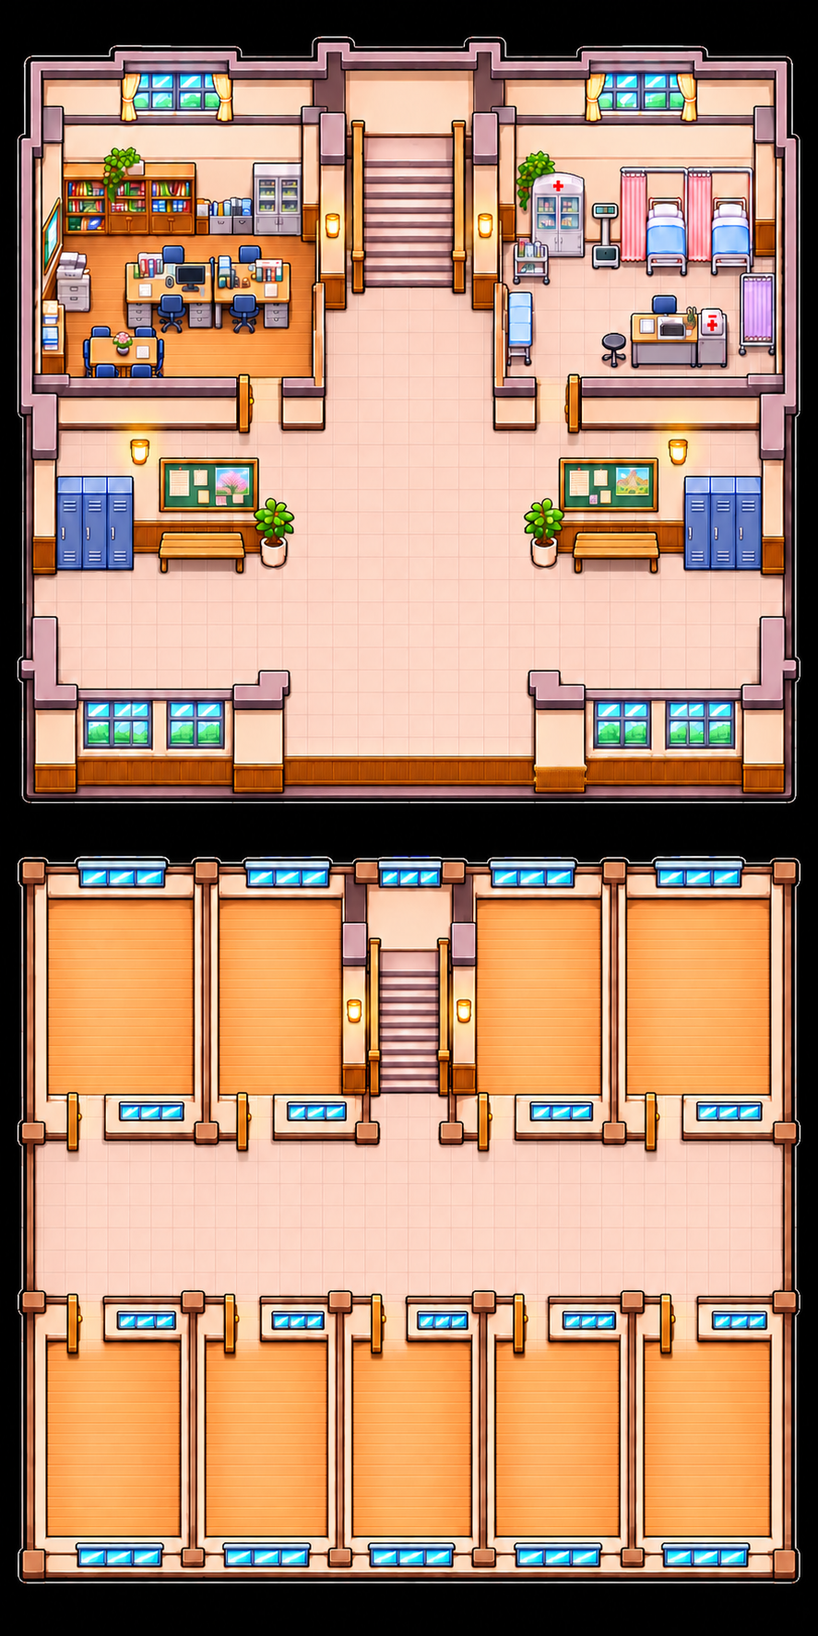
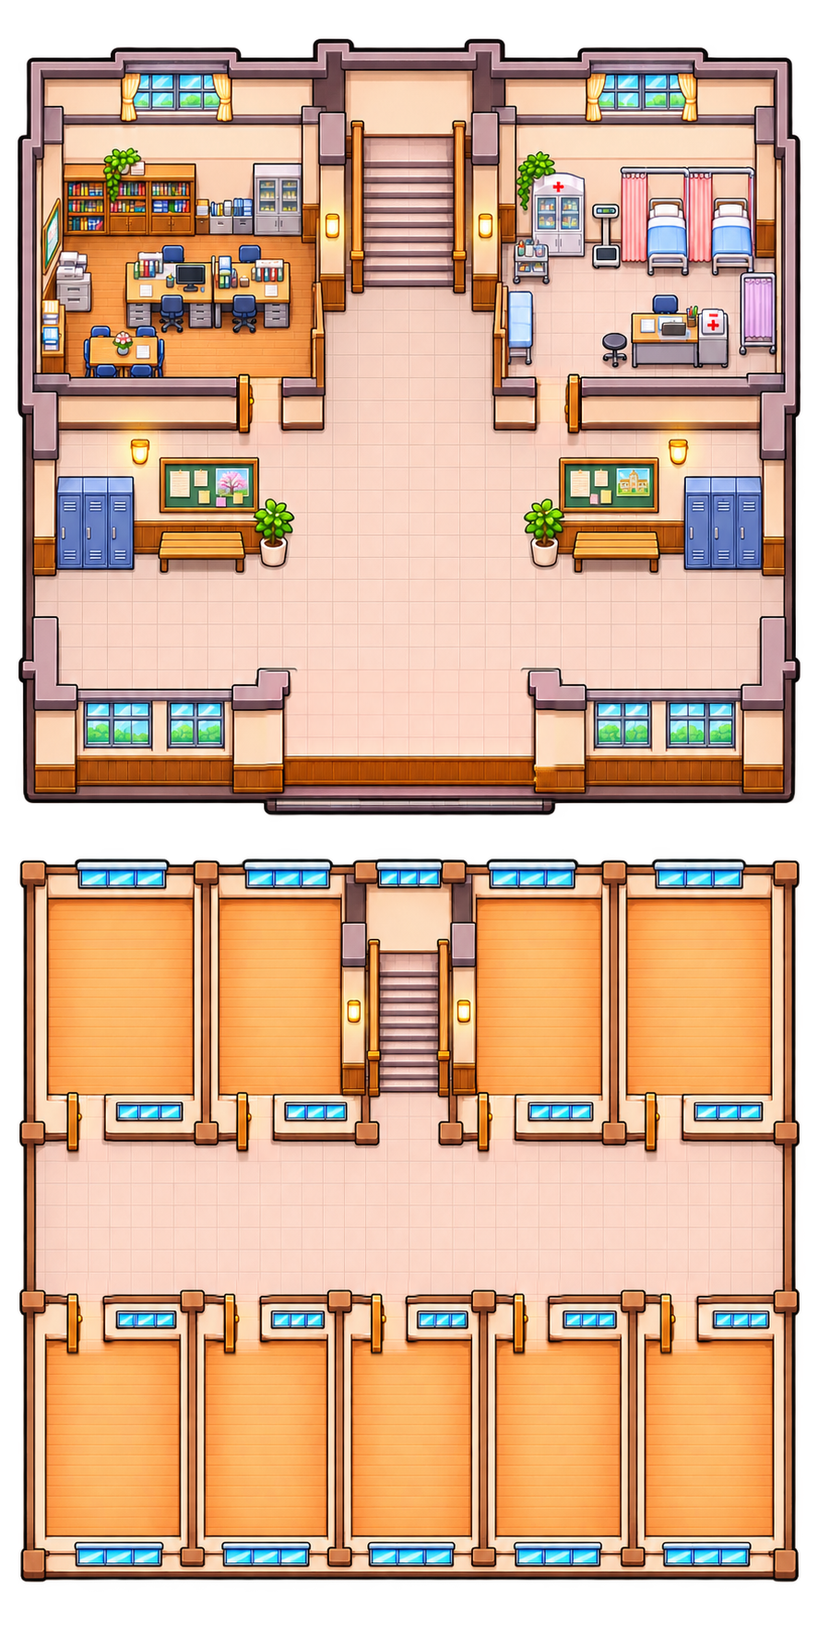
학교 2층 책상

diff --git a/school.js b/school.js
@@ -113,7 +113,9 @@ function insideSchoolFloor(x, y) {
 function schoolCanStand(x, footY, radius) {
   const points = [[x, footY], [x - radius, footY], [x + radius, footY], [x, footY - radius], [x, footY + radius]];
   if (!points.every(([px, py]) => insideSchoolFloor(px, py))) return false;
-  return !schoolFloor().obstacleRects.some(rect => circleHitsRectangle(x, footY, radius, rect));
+  if (schoolFloor().obstacleRects.some(rect => circleHitsRectangle(x, footY, radius, rect))) return false;
+  // 9반이 아닌 교실의 배경 책상도 지나갈 수 없다.
+  return scene.schoolFloor !== CLASSROOM_DATA.floor || !classroomDecorDesks().some(desk => circleHitsRectangle(x, footY, radius, desk));
 }
 
 // 플레이어 발밑에서 문(틈)까지의 거리.
@@ -238,10 +240,45 @@ function changeSchoolFloor() {
   finishMapTransition();
 }
 
+// 문을 열 때 열린 그림으로 덮을 범위(문짝 전체와 그림자).
+function schoolDoorOverlay(door) {
+  const margin = SCHOOL_DATA.doorOverlay, rect = door.picture;
+  return { left: rect.left - margin.side, top: rect.top - margin.top, right: rect.right + margin.side, bottom: rect.bottom + margin.bottom };
+}
+
 // 그림 좌표 사각형(rect)을 열린 그림에서 잘라 같은 자리에 덮어 그린다.
 function drawOpenPicture(rect, top, scale) {
   const width = rect.right - rect.left, height = rect.bottom - rect.top;
   ctx.drawImage(schoolImages.open, rect.left, rect.top, width, height, rect.left * scale, (rect.top - top) * scale, width * scale, height * scale);
+}
+
+// 현재 층의 반 번호 표지 위치. 위쪽 줄 교실은 문 아래, 아래쪽 줄 교실은 문 위에 놓아 복도에서 보이게 한다.
+function schoolDoorPlates() {
+  const plate = SCHOOL_DATA.doorPlate, floor = schoolFloor();
+  if (floor.number !== plate.floor) return [];
+  return floor.doors.map(door => {
+    const rect = door.pictureRect, upperRow = floor.rooms.find(room => room.name === door.room).row === "위쪽";
+    const y = upperRow ? rect.y + rect.height / 2 + plate.gap + plate.height / 2 : rect.y - rect.height / 2 - plate.gap - plate.height / 2;
+    return { text: door.room, x: rect.x, y, width: plate.width, height: plate.height };
+  });
+}
+
+// 반 번호 표지를 그린다.
+function drawSchoolDoorPlates() {
+  ctx.save();
+  ctx.textAlign = "center";
+  ctx.textBaseline = "middle";
+  ctx.font = `bold ${SCHOOL_DATA.doorPlate.font}px 'Malgun Gothic', sans-serif`;
+  for (const plate of schoolDoorPlates()) {
+    ctx.fillStyle = "#26342d";
+    ctx.fillRect(plate.x - plate.width / 2, plate.y - plate.height / 2, plate.width, plate.height);
+    ctx.strokeStyle = "#f4d774";
+    ctx.lineWidth = 3;
+    ctx.strokeRect(plate.x - plate.width / 2, plate.y - plate.height / 2, plate.width, plate.height);
+    ctx.fillStyle = "#fff8e9";
+    ctx.fillText(plate.text, plate.x, plate.y);
+  }
+  ctx.restore();
 }
 
 // 학교 바닥을 그린다. 그림이 있으면 닫힌 그림 위에 열린 문·정문만 열린 그림으로 덮고, 없으면 임시 색 블록으로 그린다.
@@ -252,7 +289,7 @@ function drawSchool() {
   if (schoolImageReady("closed") && schoolImageReady("open")) {
     ctx.drawImage(schoolImages.closed, crop.left, crop.top, crop.right - crop.left, crop.bottom - crop.top, 0, 0, size, size);
     for (const rect of floor.alwaysOpen) drawOpenPicture(rect, crop.top, floor.scale);
-    for (const door of floor.doors) if (schoolDoorUi.open.has(door.id)) drawOpenPicture(door.picture, crop.top, floor.scale);
+    for (const door of floor.doors) if (schoolDoorUi.open.has(door.id)) drawOpenPicture(schoolDoorOverlay(door), crop.top, floor.scale);
   } else {
     ctx.fillStyle = "#6c6a60";
     ctx.fillRect(0, 0, size, size);
@@ -274,8 +311,10 @@ function drawSchool() {
     ctx.fillText(scene.schoolFloor === 1 ? SCHOOL_DATA.text.up : SCHOOL_DATA.text.down, stairs.x, stairs.y);
     for (const room of floor.rooms) ctx.fillText(room.name, room.x + room.width / 2, room.y + 30);
   }
+  drawSchoolDoorPlates();
   // 9반 그림은 빈 교실이므로 앞쪽 벽에 임시 칠판을 그린다.
   if (scene.schoolFloor === CLASSROOM_DATA.floor) {
+    drawClassroomDecorDesks();
     const room = classroomRoom(), board = CLASSROOM_DATA.blackboard;
     const y = CLASSROOM_DATA.frontSide === "south" ? room.y + room.height - board.margin - board.height : room.y + board.margin;
     ctx.fillStyle = "#416553";

diff --git a/classroom.js b/classroom.js
@@ -4,24 +4,54 @@ function classroomRoom() {
   return SCHOOL_DATA.floors.find(floor => floor.number === CLASSROOM_DATA.floor).rooms.find(room => room.name === CLASSROOM_DATA.roomName);
 }
 
-function classroomObjects() {
-  const room = classroomRoom(), config = CLASSROOM_DATA;
+// 교실 가운데에 놓는 책상 30개의 위치. 자리표 번호와 함께 돌려준다.
+function classroomDeskPositions(room) {
+  const config = CLASSROOM_DATA;
   const totalWidth = config.deskWidth * 6 + config.pairAisle * 2;
   const totalHeight = config.deskHeight * 5 + config.rowAisle * 4;
   const left = room.x + (room.width - totalWidth) / 2;
   const top = room.y + (room.height - totalHeight) / 2;
-  const common = { placeId: SCHOOL_DATA.placeId, floor: config.floor, interactDistance: config.interactDistance, messages: { tooFar: config.text.near }, roomName: config.roomName };
   // 칠판이 아래쪽(south)이면 자리표를 180도 돌려 1행을 아래쪽, 왼쪽 쌍을 화면 오른쪽에 둔다.
   const flip = config.frontSide === "south";
   const offsetX = c => c * config.deskWidth + Math.floor(c / 2) * config.pairAisle + config.deskWidth / 2;
   const offsetY = r => r * (config.deskHeight + config.rowAisle) + config.deskHeight / 2;
-  const desks = config.seats.flatMap((row, r) => row.map((number, c) => ({
-    ...common, id: `desk-${number}`, type: "desk", number, name: `${number}${config.text.desk}`, label: String(number),
+  return config.seats.flatMap((row, r) => row.map((number, c) => ({
+    number,
     x: flip ? left + totalWidth - offsetX(c) : left + offsetX(c),
     y: flip ? top + totalHeight - offsetY(r) : top + offsetY(r),
+  })));
+}
+
+// 9반이 아닌 교실의 책상. 사용자 요청으로 놓은 배경 가구이며 부딪히기만 하고 조사할 수 없다. 위치가 변하지 않아 한 번만 계산한다.
+let classroomDecorCache = null;
+function classroomDecorDesks() {
+  if (classroomDecorCache) return classroomDecorCache;
+  const config = CLASSROOM_DATA, floor = SCHOOL_DATA.floors.find(floor => floor.number === config.floor);
+  classroomDecorCache = floor.rooms.filter(room => room.name !== config.roomName).flatMap(room =>
+    classroomDeskPositions(room).map(position => ({ roomName: room.name, x: position.x, y: position.y, width: config.deskWidth, height: config.deskHeight, sprite: config.sprite })));
+  return classroomDecorCache;
+}
+
+// 배경 책상을 그린다. 그림을 불러오지 못하면 색 블록으로 그린다.
+function drawClassroomDecorDesks() {
+  for (const desk of classroomDecorDesks()) {
+    if (drawObjectSprite(desk)) continue;
+    ctx.fillStyle = "#ba946d";
+    ctx.fillRect(desk.x - desk.width / 2, desk.y - desk.height / 2, desk.width, desk.height);
+  }
+}
+
+function classroomObjects() {
+  const room = classroomRoom(), config = CLASSROOM_DATA;
+  const common = { placeId: SCHOOL_DATA.placeId, floor: config.floor, interactDistance: config.interactDistance, messages: { tooFar: config.text.near }, roomName: config.roomName };
+  const flip = config.frontSide === "south";
+  // 사용자 요청: 책상 위에 번호를 쓰지 않는다(label은 빈 글자). 번호는 자리 배치도와 물건 창 제목에서만 볼 수 있다.
+  const desks = classroomDeskPositions(room).map(({ number, x, y }) => ({
+    ...common, id: `desk-${number}`, type: "desk", number, name: `${number}${config.text.desk}`, label: "",
+    x, y,
     width: config.deskWidth, height: config.deskHeight, clickPadding: config.clickPadding,
     color: "#ba946d", solid: true, sprite: config.sprite, itemIds: config.assignments[number],
-  })));
+  }));
   // 자리 배치도는 뒤쪽 벽(문이 있는 쪽)에 붙인다.
   const rearY = flip ? room.y + config.board.rearMargin : room.y + room.height - config.board.rearMargin;
   const boardX = flip ? room.x + room.width - config.board.sideMargin : room.x + config.board.sideMargin;

diff --git a/game.js b/game.js
@@ -703,15 +703,8 @@ function drawInterior(interior) {
     }
     // hidden 물체는 그림에 이미 있으므로 그리지 않는다(클릭·충돌은 그대로).
     if (object.hidden) continue;
-    // 그림이 있는 물체는 그림을 그리고, 번호(label)가 있으면 그 위에 쓴다.
-    if (object.sprite && drawObjectSprite(object)) {
-      if (object.label) {
-        ctx.fillStyle = "#4a2f1c";
-        ctx.font = "bold 14px 'Malgun Gothic', sans-serif";
-        ctx.fillText(object.label, object.x, object.y + object.height / 2 - (object.sprite.labelOffset ?? object.height / 2));
-      }
-      continue;
-    }
+    // 그림이 있는 물체는 그림만 그린다.
+    if (object.sprite && drawObjectSprite(object)) continue;
     ctx.fillStyle = object.color;
     ctx.fillRect(object.x - object.width / 2, object.y - object.height / 2, object.width, object.height);
     ctx.fillStyle = "#fff8e9";
@@ -744,18 +737,19 @@ function drawObjectSprite(object) {
   return true;
 }
 
-// 상호작용 키로 열 수 있는 가까운 물체(messages.keyHint가 있는 인물·게시판). 없으면 null이다.
+// 상호작용 키로 열 수 있는 가까운 물체(messages.keyHint가 있는 인물·게시판·명부). 없으면 null이다.
 function nearbyKeyObject() {
   const interior = currentInterior();
   if (!interior) return null;
   const footY = player.y + player.footOffset;
   const distance = object => Math.hypot(Math.max(0, Math.abs(player.x - object.x) - object.width / 2), Math.max(0, Math.abs(footY - object.y) - object.height / 2));
   // 여럿이 가까우면 가장 가까운 대상에 반응한다.
-  return inspectionObjectsFor(interior).filter(object => object.messages?.keyHint && distance(object) <= object.interactDistance)
+  // 특정 방 안에서만 조사할 수 있는 물체는 벽 너머에서 반응하지 않는다.
+  return inspectionObjectsFor(interior).filter(object => object.messages?.keyHint && distance(object) <= object.interactDistance && canInspectSchoolObject(object))
     .sort((a, b) => distance(a) - distance(b))[0] || null;
 }
 
-// 상호작용 키: 가까운 인물과 대화하거나 게시판을 연다. 열었으면 true를 돌려준다.
+// 상호작용 키: 가까운 인물과 대화하거나 게시판·명부를 연다. 열었으면 true를 돌려준다.
 function interactNearbyObject() {
   const object = nearbyKeyObject();
   if (!object) return false;
@@ -763,7 +757,7 @@ function interactNearbyObject() {
   return true;
 }
 
-// 가까운 인물·게시판의 화면 안내 문구. 키가 지정되지 않았으면 클릭 안내만 보여 준다.
+// 가까운 인물·게시판·명부의 화면 안내 문구. 키가 지정되지 않았으면 클릭 안내만 보여 준다.
 function keyObjectHint() {
   const object = nearbyKeyObject();
   if (!object) return "";

diff --git a/data/school.js b/data/school.js
@@ -103,6 +103,12 @@ const SCHOOL_DATA = {
     stairsUpKeyHint: "{key} 키를 누르거나 계단을 클릭해 2층으로 올라가기", stairsDownKeyHint: "{key} 키를 누르거나 계단을 클릭해 1층으로 내려가기",
     stairsUpHint: "계단을 클릭해 2층으로 올라가기", stairsDownHint: "계단을 클릭해 1층으로 내려가기",
     boardIntro: "층마다 위쪽 줄과 아래쪽 줄로 나누어 왼쪽 → 오른쪽 순서로 적었습니다.\n\n" },
+  // 문을 열 때 열린 그림으로 덮는 범위. picture(클릭 범위)보다 이만큼 넓혀 문짝 전체와 그림자를 덮는다. 단위는 학교 그림 픽셀이다.
+  // assets/school-doors-open.png는 닫힌 그림 위에 이 범위만 열린 원본을 합성한 사본이라, 이 값을 바꾸면 그림도 다시 만들어야 한다.
+  doorOverlay: { side: 8, top: 8, bottom: 22 },
+  // 2층 교실 문 앞 복도에 그리는 반 번호 표지. 문구는 rooms의 name을 쓴다. 단위는 게임 속 픽셀이다.
+  // TODO: 표지 크기와 문까지의 간격은 임시 값이다.
+  doorPlate: { floor: 2, width: 96, height: 46, gap: 8, font: 30 },
   // 반 배치 게시판을 열면 나오는 안내도. 학교 그림을 바탕으로 방 이름·계단·현위치를 표기한다.
   // labels의 x·y는 학교 그림(887×1774) 픽셀이다. 방 이름은 rooms, 계단은 stairs, 현위치는 게시판 자리에 자동으로 놓는다.
   // 플레이어 도시 지도(M)가 아니라 학교 안에 걸린 안내도이므로 장소명과 현위치를 표기한다.

diff --git a/data/classroom.js b/data/classroom.js
@@ -9,10 +9,10 @@ const CLASSROOM_DATA = {
   // TODO: 책상 크기, 쌍 사이 통로, 행 사이 통로, 조사 거리·클릭 여유는 임시 설정이다. 단위는 게임 속 픽셀이다.
   deskWidth: 64, deskHeight: 48, pairAisle: 80, rowAisle: 100,
   interactDistance: 180, clickPadding: 16,
-  // 학생 자리 그림. 칠판(아래쪽)을 보도록 위아래를 뒤집어 저장했다(의자가 위, 책상이 아래).
-  // 그림 아래쪽을 책상 범위 아래쪽에 맞추고, 의자는 위쪽 통로로 조금 튀어나온다. 번호는 책상 윗면(아래쪽에서 labelOffset 위)에 쓴다.
-  // TODO: 그림 크기와 번호 위치는 임시 설정이다. 단위는 게임 속 픽셀이다.
-  sprite: { src: "assets/school-desk.png", width: 64, height: 72, labelOffset: 10 },
+  // 학생 자리 그림. 사용자 요청으로 원본과 같은 방향이다(책상이 위, 의자가 아래). 칠판은 아래쪽에 있어 학생이 칠판을 등지는 모양이다.
+  // 그림 아래쪽을 책상 범위 아래쪽에 맞추고, 책상 윗면은 위쪽 통로로 조금 튀어나온다.
+  // TODO: 그림 크기는 임시 설정이다. 단위는 게임 속 픽셀이다.
+  sprite: { src: "assets/school-desk.png", width: 64, height: 72 },
   // 자리 배치도는 뒤쪽(문 쪽) 벽 오른쪽에 둔다. 칠판은 앞쪽(아래쪽) 벽에 그린다.
   board: { width: 150, height: 40, rearMargin: 40, sideMargin: 110 },
   blackboard: { width: 400, height: 40, margin: 40 },

diff --git a/studio-ui.js b/studio-ui.js
@@ -43,7 +43,7 @@ function drawPhotoRoads() {
 function renderInspection() {
   const { mode, object, item, back } = inspectionUiState;
   inspectionDialog.dataset.mode = mode;
-  // 대화창·게시판은 상호작용 키로도 닫을 수 있어 버튼에 키 이름을 함께 보여 준다.
+  // 대화창·게시판·명부는 상호작용 키로도 닫을 수 있어 버튼에 키 이름을 함께 보여 준다.
   inspectionClose.textContent = object?.messages?.keyHint ? bindingCloseLabel("interact") : SETTINGS_DATA.text.close;
   const collected = mode === "album" && gameState.photoCollected;
   inspectionTitle.textContent = item && ["photo", "infirmary", "playgroundMemo", "diary"].includes(mode) ? item.name : object.name;

diff --git a/data/registry.js b/data/registry.js
@@ -24,5 +24,6 @@ INSPECTION_OBJECTS.push({
   ...schoolRect(REGISTRY_DATA.paper, 0, SCHOOL_DATA.floors[0].scale), color: "#737c86", interactDistance: 180, sprite: REGISTRY_DATA.sprite,
   // 책상은 그림에 있으므로 그리지 않고(hidden) 충돌에만 쓴다.
   table: { ...schoolRect(REGISTRY_DATA.desk, 0, SCHOOL_DATA.floors[0].scale), color: "#b58b65", hidden: true },
-  messages: { tooFar: REGISTRY_DATA.text.near },
+  // keyHint의 {key}는 설정에서 지정한 상호작용 키로 바뀐다. keyHintClick은 키가 할당 없음일 때 쓴다.
+  messages: { tooFar: REGISTRY_DATA.text.near, keyHint: "{key} 키를 누르거나 클릭해 명부 보기", keyHintClick: "클릭해 명부 보기" },
 });

diff --git a/input.js b/input.js
@@ -36,7 +36,7 @@ window.addEventListener("keydown", event => {
   if (action === "interact") {
     event.preventDefault();
     if (event.repeat) return;
-    // 상호작용 키로 연 창(대화·게시판)이 열려 있으면 닫고, 아니면 가까운 대상과 상호작용한다.
+    // 상호작용 키로 연 창(대화·게시판·명부)이 열려 있으면 닫고, 아니면 가까운 대상과 상호작용한다.
     if (inspectionUiState.object?.messages?.keyHint) closeInspection();
     else if (!isGameInputBlocked()) interactNearbySchool() || interactNearbyObject() || interactNearbyEntrance();
     return;

diff --git a/README.md b/README.md
@@ -108,18 +108,18 @@
 
 ## 학교 실내
 
-학교 실내는 문 닫힌 그림 `assets/school-doors-closed.png`와 문 열린 그림 `assets/school-doors-open.png`(각 887×1774, 위쪽 절반이 1층·아래쪽 절반이 2층)를 겹쳐 그립니다. 원본은 `에셋/`의 "학교 내부 문 닫힌 버전", "학교 내부 문 열린 버전"입니다. 두 그림은 문 부분만 달라서, 닫힌 그림을 깔고 열린 문 자리만 열린 그림에서 잘라 덮습니다. 그림 1픽셀은 1층에서 게임 속 3.5픽셀, 2층에서 4.5픽셀입니다(층마다 `scale`). 사용자 요청으로 1층만 작게 했고, 2층은 9반 책상 30개가 들어가도록 유지합니다. 그림을 불러오지 못하면 바닥과 문을 임시 색 블록으로 그립니다.
+학교 실내는 문 닫힌 그림 `assets/school-doors-closed.png`와 문 열린 그림 `assets/school-doors-open.png`(각 887×1774, 위쪽 절반이 1층·아래쪽 절반이 2층)를 겹쳐 그립니다. 원본은 `에셋/`의 "학교 내부 문 닫힌 버전", "학교 내부 문 열린 버전"입니다. `assets/school-doors-open.png`는 원본 그대로가 아니라, 닫힌 그림 위에 문·정문 자리만 열린 원본을 부드럽게 합성한 사본입니다(원본 두 장의 색감이 달라 경계가 보이는 것을 막습니다). 게임에서는 닫힌 그림을 깔고 열린 문 자리(`doorOverlay`)만 이 그림에서 잘라 덮습니다. 그림 1픽셀은 1층에서 게임 속 3.5픽셀, 2층에서 4.5픽셀입니다(층마다 `scale`). 사용자 요청으로 1층만 작게 했고, 2층은 9반 책상 30개가 들어가도록 유지합니다. 그림을 불러오지 못하면 바닥과 문을 임시 색 블록으로 그립니다.
 
 - **문 열기·닫기**: 열 수 있는 문 가까이에 가면 화면에 "E 키를 누르거나 문을 클릭해 열기"(열린 문은 "…닫기") 안내가 나옵니다. 문 열기 키를 바꾸면 바뀐 키 이름이, 키가 할당 없음이면 "문을 클릭해 열기"가 나옵니다. **E**를 누르거나 문을 클릭하면 열리고, 다시 누르면 닫힙니다. 닫힌 문은 지나갈 수 없습니다. 문 틈에 서 있으면 닫히지 않고 "문 앞에서 비켜 주세요."가 나옵니다. 멀리서 문을 클릭하면 "문 가까이에서 클릭해 주세요."만 나옵니다.
 - 열린 문은 학교를 나가면 모두 닫힙니다. 층을 오가는 동안은 유지되며, 문 상태는 저장하지 않습니다. 문 틈에 선 채로 저장된 게임을 이어 하면 그 문만 열린 채로 시작합니다.
-- E 키는 설정 화면의 **상호작용(문·건물 출입, 계단, 대화)**에서 바꿀 수 있습니다. 사진관의 사진작가와 학교 선생님에게도 E 키로 말을 걸 수 있고, 가까이 가면 안내 문구가 나옵니다(`data/objects.js`, `data/school.js`의 `keyHint`). 대화창은 E 키로 다시 닫을 수 있습니다. E 키 안내는 플레이어가 아니라 대상 바로 위에 나옵니다. NPC는 머리 위, 그 밖의 대상(게시판·문·계단·건물 입구·출구)은 대상 한가운데입니다. 건물 입구 위치는 `city-data.js`의 `hintOffset`으로 맞추며, 집 쪽문은 플레이어를 가리지 않도록 문 윗부분입니다(`game.js`의 `currentKeyHint`, `KEY_HINT_BOX`). 반 배치 게시판도 E 키로 열고 닫을 수 있습니다. 이전에 저장한 키 설정에는 이 항목이 없으므로, 기존 키는 그대로 두고 이 항목만 기본값(E)으로 채웁니다. E를 이미 다른 기능에 쓰고 있었다면 할당 없음이 됩니다.
+- E 키는 설정 화면의 **상호작용(문·건물 출입, 계단, 대화)**에서 바꿀 수 있습니다. 사진관의 사진작가와 학교 선생님에게도 E 키로 말을 걸 수 있고, 보건실 명부도 E 키로 열 수 있으며, 가까이 가면 안내 문구가 나옵니다(`data/objects.js`, `data/school.js`의 `keyHint`). 대화창은 E 키로 다시 닫을 수 있습니다. E 키 안내는 플레이어가 아니라 대상 바로 위에 나옵니다. NPC는 머리 위, 그 밖의 대상(게시판·문·계단·건물 입구·출구)은 대상 한가운데입니다. 건물 입구 위치는 `city-data.js`의 `hintOffset`으로 맞추며, 집 쪽문은 플레이어를 가리지 않도록 문 윗부분입니다(`game.js`의 `currentKeyHint`, `KEY_HINT_BOX`). 반 배치 게시판도 E 키로 열고 닫을 수 있습니다. 이전에 저장한 키 설정에는 이 항목이 없으므로, 기존 키는 그대로 두고 이 항목만 기본값(E)으로 채웁니다. E를 이미 다른 기능에 쓰고 있었다면 할당 없음이 됩니다.
 - 정문은 사용자 결정으로 항상 열린 그림(유리문 없음)을 씁니다. 현관 안쪽 끝의 **나가기**를 클릭하면 밖으로 나갑니다.
 - **1층**: 정문으로 들어오면 로비입니다. 위쪽 왼쪽이 **교무실**, 오른쪽이 **보건실**, 가운데가 **2층 계단**입니다. 로비 왼쪽 게시판이 **반 배치 게시판**이고, 그 오른쪽 아래에 선생님이 있습니다.
-- **2층**: 가운데 복도를 중심으로 위쪽 줄에 1~4반(가운데 계단), 아래쪽 줄에 5~9반이 있습니다. 9반은 오른쪽 아래 교실입니다.
+- **2층**: 가운데 복도를 중심으로 위쪽 줄에 1~4반(가운데 계단), 아래쪽 줄에 5~9반이 있습니다. 교실 문 앞 복도에 반 번호 표지가 있습니다(`data/school.js`의 `doorPlate`). 9반은 오른쪽 아래 교실입니다.
 - 계단 가까이에서 **E 키를 누르거나 계단을 클릭**하면 다른 층으로 갑니다. 가까이 가면 계단 한가운데에 안내가 나옵니다(`data/school.js`의 `stairsUpKeyHint`, `stairsDownKeyHint`). 문과 계단이 둘 다 가까우면 더 가까운 쪽에 반응합니다.
 - 사진·아이템·NPC 대화가 없어도 문만 열면 모든 방에 들어갈 수 있습니다.
 
-**9반**: 문이 교실 위쪽에 있으므로 칠판(임시 초록 도형)은 아래쪽 벽, 자리 배치도는 문 쪽(위쪽) 벽 오른쪽에 있습니다. 책상 30개는 기획서 자리표를 칠판을 바라보는 방향 기준으로 180도 돌려 놓았습니다. 그래서 1행(14·8·23·5·17·29)이 칠판 쪽 가장 아래 줄이고, 학생 기준 왼쪽 쌍이 화면 오른쪽입니다. 1번 책상은 문 쪽 맨 위 줄, 가운데 쌍의 학생 기준 오른쪽(화면 왼쪽) 자리입니다. 책상은 `assets/school-desk.png`(원본 `에셋/학생 자리.png`의 체크무늬 배경을 지우고, 칠판을 보도록 위아래를 뒤집은 사본) 그림으로 그리고, 책상 윗면에 번호를 씁니다. 그림이 없으면 갈색 사각형으로 그립니다.
+**9반**: 문이 교실 위쪽에 있으므로 칠판(임시 초록 도형)은 아래쪽 벽, 자리 배치도는 문 쪽(위쪽) 벽 오른쪽에 있습니다. 책상 30개는 기획서 자리표를 칠판을 바라보는 방향 기준으로 180도 돌려 놓았습니다. 그래서 1행(14·8·23·5·17·29)이 칠판 쪽 가장 아래 줄이고, 학생 기준 왼쪽 쌍이 화면 오른쪽입니다. 1번 책상은 문 쪽 맨 위 줄, 가운데 쌍의 학생 기준 오른쪽(화면 왼쪽) 자리입니다. 책상은 `assets/school-desk.png`(원본 `에셋/학생 자리.png`의 체크무늬 배경을 지운 사본, 책상이 위·의자가 아래) 그림으로 그립니다. 책상 위에는 번호를 쓰지 않으므로 자리 배치도를 보고 찾아야 합니다. 1~8반에도 같은 배치로 책상 30개씩 있지만 배경 가구라서 부딪히기만 하고 조사할 수 없습니다(`classroom.js`의 `classroomDecorDesks`). 그림이 없으면 갈색 사각형으로 그립니다.
 
 1. 2층 9반으로 들어갑니다. 위쪽 벽의 자리 배치도를 가까이에서 클릭하면 **5행 × 3쌍** 자리표가 확대됩니다.
 2. 1번 책상을 클릭하고 알림장과 크레파스를 각각 클릭해 획득합니다.
